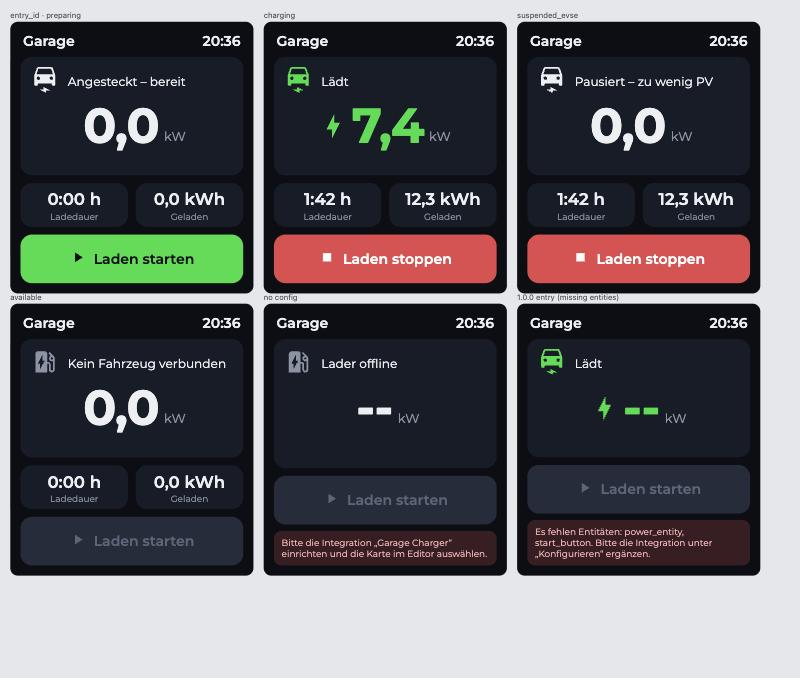
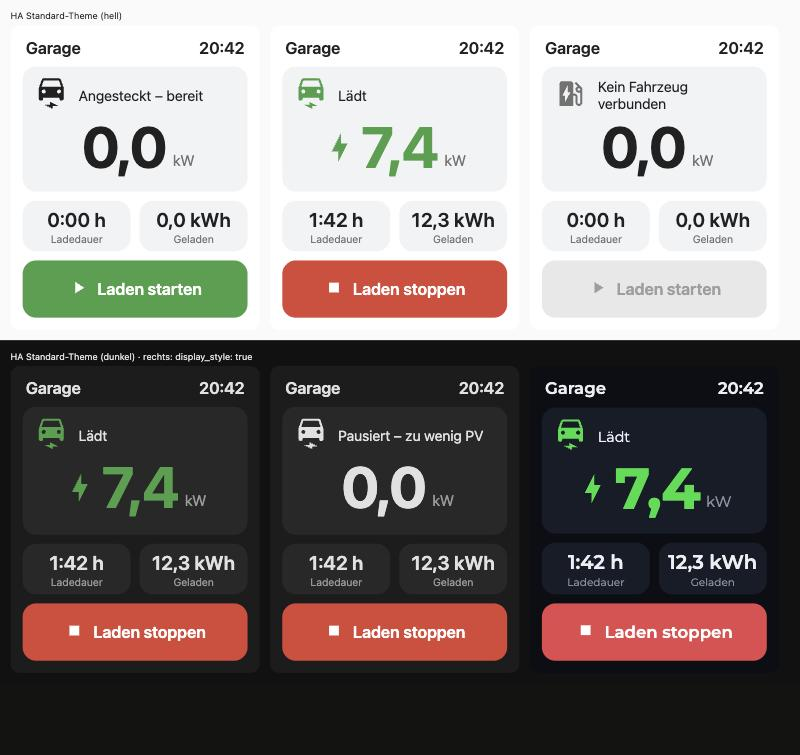
Card: use the dashboard theme colours
The card now takes its colours from the HA theme (light and dark) via
--gc-* variables with literal fallbacks. The dark garage-display look is
kept as an option (display_style: true, also in the editor). A test makes
sure hard-coded colours only appear as fallbacks or in that palette.

diff --git a/custom_components/garage_charger/www/garage-charger-card.js b/custom_components/garage_charger/www/garage-charger-card.js
@@ -8,6 +8,7 @@
  *   entry_id: <Garage Charger config entry>   # the editor fills this in
  *   title: Garage                              # optional
  *   show_clock: true                           # optional
+ *   display_style: false                       # optional: dark display look
  *
  * Every entity can be overridden explicitly (status_entity, power_entity,
  * start_button, stop_button, duration_entity, energy_entity).
@@ -63,6 +64,7 @@
       ed_entry: "Lader",
       ed_title: "Titel",
       ed_clock: "Uhrzeit anzeigen",
+      ed_display: "Dunkle Optik wie das Garagen-Display (statt Theme-Farben)",
     },
     en: {
       available: "No vehicle connected",
@@ -85,6 +87,7 @@
       ed_entry: "Charger",
       ed_title: "Title",
       ed_clock: "Show clock",
+      ed_display: "Dark look of the garage display (instead of theme colours)",
     },
   };
 
@@ -171,39 +174,57 @@
   }
 
   // --------------------------------------------------------------- card --
+  // Colours: HA theme variables by default; `display_style: true` switches to
+  // the dark look of the garage display. Plain fallbacks for every variable.
   var STYLE =
-    ":host{display:block;height:100%}" +
-    ".card{box-sizing:border-box;height:100%;background:#0B0E14;color:#ECEFF4;" +
+    ":host{display:block;height:100%;" +
+    "--gc-bg:var(--ha-card-background,var(--card-background-color,#fff));" +
+    "--gc-tile:var(--secondary-background-color,#f2f3f5);" +
+    "--gc-text:var(--primary-text-color,#212121);" +
+    "--gc-dim:var(--secondary-text-color,#727272);" +
+    "--gc-green:var(--success-color,#43a047);" +
+    "--gc-on-green:var(--text-primary-color,#fff);" +
+    "--gc-red:var(--error-color,#db4437);" +
+    "--gc-on-red:var(--text-primary-color,#fff);" +
+    "--gc-off-bg:var(--secondary-background-color,#e8e8e8);" +
+    "--gc-off-text:var(--disabled-text-color,#9e9e9e);" +
+    "--gc-err-bg:rgba(219,68,55,.12);" +
+    "--gc-font:var(--ha-font-family-body,var(--paper-font-body1_-_font-family,system-ui)),sans-serif}" +
+    ".card.display{--gc-bg:#0B0E14;--gc-tile:#171C27;--gc-text:#ECEFF4;--gc-dim:#8B93A5;" +
+    "--gc-green:#0FDE41;--gc-on-green:#0B0E14;--gc-red:#E5484D;--gc-on-red:#fff;" +
+    "--gc-off-bg:#252C3B;--gc-off-text:#5C6578;--gc-err-bg:#3A1D22;--gc-font:Montserrat,system-ui,sans-serif}" +
+    ".card{box-sizing:border-box;height:100%;background:var(--gc-bg);color:var(--gc-text);" +
     "border-radius:var(--ha-card-border-radius,12px);padding:16px;overflow:hidden;" +
-    "font-family:Montserrat,var(--ha-font-family-body,system-ui),sans-serif;" +
-    "display:flex;flex-direction:column}" +
+    "font-family:var(--gc-font);display:flex;flex-direction:column}" +
     ".head{display:flex;justify-content:space-between;align-items:center;font-size:22px;font-weight:600;padding:0 4px;margin-bottom:12px}" +
-    ".tile{background:#171C27;border-radius:18px}" +
+    ".tile{background:var(--gc-tile);border-radius:18px}" +
     ".main{padding:14px 16px 22px;margin-bottom:12px;flex:1 1 auto}" +
     ".status{display:flex;align-items:center;font-size:19px}" +
     ".status svg{width:44px;height:44px;fill:currentColor;flex:none;margin-right:14px}" +
+    ".ico-charging{color:var(--gc-green)}.ico-faulted{color:var(--gc-red)}.ico-idle{color:var(--gc-dim)}.ico-ready{color:var(--gc-text)}" +
     ".power{display:flex;justify-content:center;align-items:flex-end;margin-top:6px}" +
     ".power .num{font-size:76px;font-weight:700;line-height:1;letter-spacing:-1px;margin:0 8px}" +
-    ".power .unit{font-size:20px;color:#8B93A5;padding-bottom:8px}" +
-    ".power svg{width:42px;height:42px;fill:#0FDE41;padding-bottom:12px}" +
+    ".power .num.on{color:var(--gc-green)}" +
+    ".power .unit{font-size:20px;color:var(--gc-dim);padding-bottom:8px}" +
+    ".power svg{width:42px;height:42px;fill:var(--gc-green);padding-bottom:12px}" +
     ".vals{display:flex;margin-bottom:12px}" +
     ".val{flex:1 1 0;text-align:center;padding:10px 6px 8px}" +
     ".val+.val{margin-left:12px}" +
     ".val .v{font-size:26px;font-weight:600}" +
-    ".val .l{font-size:14px;color:#8B93A5;margin-top:2px}" +
+    ".val .l{font-size:14px;color:var(--gc-dim);margin-top:2px}" +
     "button{all:unset;box-sizing:border-box;width:100%;min-height:76px;border-radius:18px;" +
-    "display:flex;justify-content:center;align-items:center;font-size:22px;font-weight:600;cursor:pointer}" +
+    "display:flex;justify-content:center;align-items:center;font-size:22px;font-weight:600;cursor:pointer;font-family:var(--gc-font)}" +
     "button svg{width:26px;height:26px;fill:currentColor;margin-right:12px}" +
     "button:active{opacity:.8}" +
-    "button.start{background:#0FDE41;color:#0B0E14}" +
-    "button.stop{background:#E5484D;color:#fff}" +
-    "button.off,button.wait{background:#252C3B;color:#5C6578;cursor:default}" +
-    ".msg{display:none;margin-top:10px;padding:10px 12px;border-radius:12px;background:#3A1D22;color:#FFB4B8;font-size:14px}" +
+    "button.start{background:var(--gc-green);color:var(--gc-on-green)}" +
+    "button.stop{background:var(--gc-red);color:var(--gc-on-red)}" +
+    "button.off,button.wait{background:var(--gc-off-bg);color:var(--gc-off-text);cursor:default}" +
+    ".msg{display:none;margin-top:10px;padding:10px 12px;border-radius:12px;background:var(--gc-err-bg);color:var(--gc-red);font-size:14px}" +
     ".msg.show{display:block}" +
     ".hidden{display:none!important}";
 
   var LAYOUT =
-    '<ha-card class="card">' +
+    '<ha-card class="card" id="card">' +
     '<div class="head"><span id="title"></span><span id="clock"></span></div>' +
     '<div class="tile main">' +
     '<div class="status"><span id="ico"></span><span id="status"></span></div>' +
@@ -367,6 +388,7 @@
       }
       if (this._error && Date.now() > this._error.until) this._error = null;
 
+      $("card").className = c.display_style ? "card display" : "card";
       $("title").textContent = c.title || "";
       $("clock").textContent = c.show_clock === false ? "" :
         new Date().toLocaleTimeString(language === "de" ? "de-DE" : undefined, { hour: "2-digit", minute: "2-digit" });
@@ -376,10 +398,10 @@
       $("status").textContent = t[status] || t.offline;
       var ico = $("ico");
       ico.innerHTML = svg(status === "faulted" ? ICONS.alert : idle ? ICONS.station : ICONS.car);
-      ico.style.color = charging ? "#0FDE41" : status === "faulted" ? "#E5484D" : idle ? "#8B93A5" : "#ECEFF4";
+      ico.className = charging ? "ico-charging" : status === "faulted" ? "ico-faulted" : idle ? "ico-idle" : "ico-ready";
 
       $("power").textContent = formatPower(this._stateObj(r.cfg.power_entity), language);
-      $("power").style.color = charging ? "#0FDE41" : "#ECEFF4";
+      $("power").className = charging ? "num on" : "num";
       $("bolt").classList.toggle("hidden", !charging);
 
       var showVals = !!(r.cfg.duration_entity || r.cfg.energy_entity);
@@ -480,6 +502,7 @@
         { name: "entry_id", required: true, selector: { select: { options: options, mode: "dropdown" } } },
         { name: "title", selector: { text: {} } },
         { name: "show_clock", selector: { boolean: {} } },
+        { name: "display_style", selector: { boolean: {} } },
       ];
     }
 
@@ -490,7 +513,8 @@
         ensureHaForm().then(function () {
           if (self._form) return;
           var form = document.createElement("ha-form");
-          form.computeLabel = function (s) { return tr(self._hass, "ed_" + (s.name === "entry_id" ? "entry" : s.name === "show_clock" ? "clock" : "title")); };
+          var labels = { entry_id: "ed_entry", title: "ed_title", show_clock: "ed_clock", display_style: "ed_display" };
+          form.computeLabel = function (s) { return tr(self._hass, labels[s.name]); };
           form.addEventListener("value-changed", function (ev) {
             self._emit(Object.assign({}, self._config, ev.detail.value));
           });

diff --git a/tests/test_frontend.py b/tests/test_frontend.py
@@ -265,3 +265,13 @@ def test_card_guards_registration() -> None:
     src = CARD_JS.read_text()
     assert "if (!customElements.get(TAG))" in src
     assert "window.customCards.some" in src
+
+
+def test_card_colours_come_from_theme() -> None:
+    """Hard-coded colours only as fallbacks or in the opt-in display palette."""
+    src = re.sub(r"/\*.*?\*/", "", CARD_JS.read_text(), flags=re.S)
+    for line in src.splitlines():
+        if re.search(r"#[0-9A-Fa-f]{3,6}\b", line):
+            assert "--gc-" in line, f"hard-coded colour outside theme variables: {line.strip()}"
+    assert "var(--primary-text-color" in src
+    assert "var(--ha-card-background" in src

diff --git a/AGENTS.md b/AGENTS.md
@@ -43,11 +43,13 @@ tests/
                    legacy resource warning, YAML fallback (both builds),
                    idempotency, failure isolation, async_setup vs entry setup,
                    websocket payload, card source rules (ES2019, own scope,
-                   no gap, color-mix fallback, guarded registration)
+                   no gap, color-mix fallback, guarded registration,
+                   colours only from theme variables)
   card.test.mjs    node --test: double evaluation in one context, button
                    logic, formatting, hints without config, exact service
                    call, refuse-don't-queue, background status change,
-                   entities from entry, i18n, failed call, stub config
+                   entities from entry, i18n, failed call, stub config,
+                   theme vs. display_style
 ```
 
 Tests:
@@ -83,6 +85,11 @@ Users never copy files or add resources by hand.
   `replaceAll` or `#private` fields.
 - **CSS:** no flex/grid `gap` (use margins). Every `color-mix()` needs a
   plain fallback line before it.
+- **Colours:** use HA theme variables (`--primary-text-color`,
+  `--ha-card-background`, `--success-color`, …) through the card's `--gc-*`
+  variables, each with a literal fallback. Hard-coded colours are allowed
+  only in those fallbacks and in the opt-in `display_style` palette; a
+  test enforces this.
 - **Registration:** guard both `customElements.define` and
   `window.customCards`.
 - **Errors:** catch render errors and show them in the card. Put

diff --git a/README.md b/README.md
@@ -35,7 +35,9 @@ exposes start/stop button entities.
     Start/Stop button;
   - is **loaded automatically** by the integration: it is registered as a
     dashboard resource, so you add no resource and copy no file;
-  - has a visual editor (pick the charger, title, clock);
+  - uses your **theme colours** (light and dark); `display_style: true`
+    switches to the dark look of the garage display;
+  - has a visual editor (pick the charger, title, clock, look);
   - works on old wall tablets and WebViews (legacy-safe JavaScript);
   - follows the HA language (German/English).
 - **ESPHome display** with the same look (see [`esphome/`](esphome/)).
@@ -81,6 +83,7 @@ type: custom:garage-charger-card
 entry_id: <id of the Garage Charger entry>   # filled in by the editor
 title: Garage        # optional
 show_clock: true     # optional
+display_style: false # optional: dark garage-display look instead of theme colours
 ```
 
 Any entity can be overridden explicitly (`status_entity`, `power_entity`,

diff --git a/CHANGELOG.md b/CHANGELOG.md
@@ -25,6 +25,9 @@ uses [Semantic Versioning](https://semver.org/).
 - Card tests (`node --test`) and tests for the card registration.
 
 ### Changed
+- The card uses the **theme colours** of the dashboard (light and dark
+  themes). The dark look of the garage display is still available with
+  `display_style: true` or the switch in the editor.
 - The card file moved to `custom_components/garage_charger/www/`.
 - The card is served with cache headers; its URL carries a content hash, so
   browsers pick up updates on their own.
